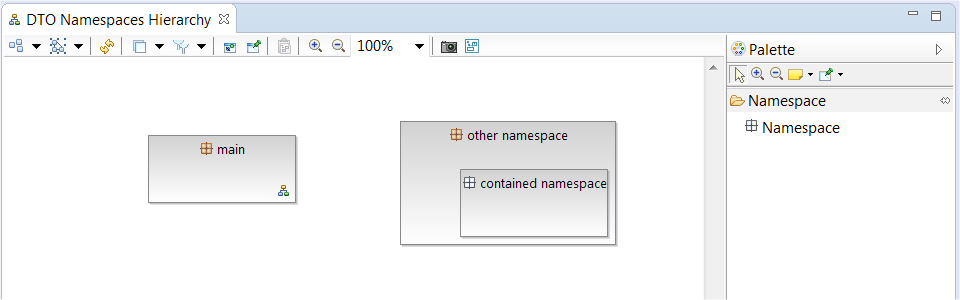
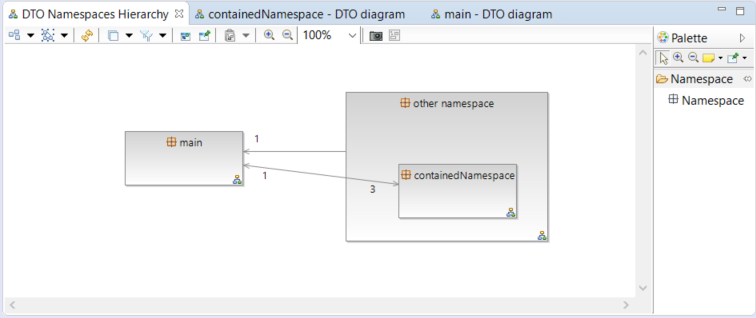
[SAFRAN-548] Update documentation on modelers

Changed region(s): [[0.0, 0.0, 1.0, 1.0], [0.7606, 0.39, 0.8823, 0.45], [0.1521, 0.63, 0.3042, 0.69]]

diff --git a/designs/entity/plugins/org.obeonetwork.dsl.entity.doc/doc/Obeo Network - Entity Designer.html b/designs/entity/plugins/org.obeonetwork.dsl.entity.doc/doc/Obeo Network - Entity Designer.html
@@ -120,6 +120,11 @@
 			<li>
 				<em>Namespace</em> : chaque package contenu dans l'élément racine est affiché. Si un package est contenu par un autre package il apparaît à l&#8217;intérieur de son package parent. L&#8217;icône d&#8217;un package apparaît blanche ou grisée selon si le package est respectivement vide ou non.
 			</li>
+			<li>
+				<em>Dépendance</em> : les dépendances entre packages sont représentées par des liens. Ces dépendances sont consolidées à partir du contenu de chacun des packages.Une dépendance consiste en un lien d&#8217;héritage, une référence ou l&#8217;utilisation d&#8217;une 
+				<em>Enumération</em> pour typer un attribut. Le nombre d'éléments considérés dans la relation de dépendance est indiqué sur chaque extrémité. Les dépendances entre un package et un de ses sous-packages ne sont pas affichées. L&#8217;affichage des dépendances peut être activé ou désactivé via le layer 
+				<em>Dependencies</em>.
+			</li>
 		</ul>
 		<p>Les outils fournis par la palette sont :</p>
 		<table>

diff --git a/designs/soa/plugins/org.obeonetwork.dsl.soa.doc/doc/Obeo Network - SOA Designer.html b/designs/soa/plugins/org.obeonetwork.dsl.soa.doc/doc/Obeo Network - SOA Designer.html
@@ -261,6 +261,11 @@
 			<li>
 				<em>Namespace</em> : chaque package contenu dans l'élément racine est affiché. Si un package est contenu par un autre package il apparaît à l&#8217;intérieur de son package parent. L&#8217;icône d&#8217;un package apparaît blanche ou grisée selon si le package est respectivement vide ou non.
 			</li>
+			<li>
+				<em>Dépendance</em> : les dépendances entre packages sont représentées par des liens. Ces dépendances sont consolidées à partir du contenu de chacun des packages.Une dépendance consiste en un lien d&#8217;héritage, une référence ou l&#8217;utilisation d&#8217;une 
+				<em>Enumération</em> pour typer un attribut. Le nombre d'éléments considérés dans la relation de dépendance est indiqué sur chaque extrémité. Les dépendances entre un package et un de ses sous-packages ne sont pas affichées. L&#8217;affichage des dépendances peut être activé ou désactivé via le layer 
+				<em>Dependencies</em>.
+			</li>
 		</ul>
 		<p>Les outils fournis par la palette sont :</p>
 		<table>

diff --git a/models/graal/plugins/org.obeonetwork.graal.doc/doc/Obeo Network - Graal tooling.html b/models/graal/plugins/org.obeonetwork.graal.doc/doc/Obeo Network - Graal tooling.html
@@ -669,6 +669,11 @@
 			<li>
 				<em>Namespace</em> : chaque package contenu dans le System est affiché. Si un package est contenu par un autre package il apparaît à l&#8217;intérieur de son package parent. L&#8217;icône d&#8217;un package apparaît blanche ou grisée selon si le package est respectivement vide ou non.
 			</li>
+			<li>
+				<em>Dépendance</em> : les dépendances entre packages sont représentées par des liens. Ces dépendances sont consolidées à partir du contenu de chacun des packages.Une dépendance consiste en un lien d&#8217;héritage, une référence ou l&#8217;utilisation d&#8217;une 
+				<em>Enumération</em> pour typer un attribut. Le nombre d'éléments considérés dans la relation de dépendance est indiqué sur chaque extrémité. Les dépendances entre un package et un de ses sous-packages ne sont pas affichées. L&#8217;affichage des dépendances peut être activé ou désactivé via le layer 
+				<em>Dependencies</em>.
+			</li>
 		</ul>
 		<p>Les outils fournis par la palette sont :</p>
 		<table>
